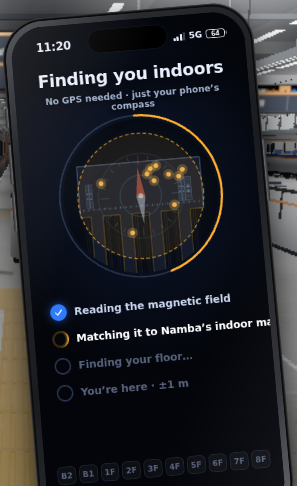
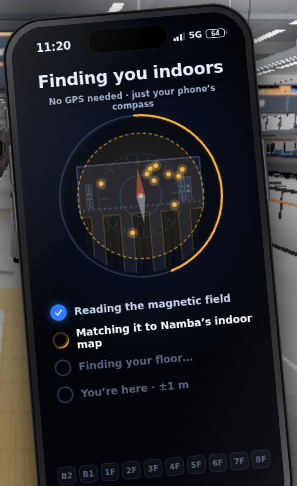
WIP v8: Lodestone full-app map + shared header, staged calibration screen (agent done)
Claude-Session: https://claude.ai/code/session_01DFPWmVZjWP3RarZo2JLFjj

diff --git a/namba-demo/css/phone.css b/namba-demo/css/phone.css
@@ -833,9 +833,9 @@
 .ld-calib { background: radial-gradient(90% 50% at 50% 34%, #0e1830 0%, #03050a 72%); }
 .ld-c-txt { top: 62px; padding: 0 18px; }
 .ld-c-txt h2 { font-size: 23px; line-height: 1.2; font-weight: 800; letter-spacing: -.015em; }
-.ld-c-sub { margin-top: 6px; font-size: 12px; letter-spacing: 0; text-transform: none; color: #9fb0cc; font-weight: 600; }
-.ld-c-steps { position: absolute; left: 24px; right: 18px; top: 372px; margin: 0; padding: 0; list-style: none; display: flex; flex-direction: column; gap: 6px; }
-.ld-c-steps li { display: flex; align-items: center; gap: 10px; height: 30px; font-size: 14px; letter-spacing: -.01em; white-space: nowrap; font-weight: 650; color: #56627a; transition: color .25s; }
+.ld-c-sub { margin-top: 6px; font-size: 11.5px; letter-spacing: 0; text-transform: none; color: #9fb0cc; font-weight: 600; }
+.ld-c-steps { position: absolute; left: 24px; right: 14px; top: 372px; margin: 0; padding: 0; list-style: none; display: flex; flex-direction: column; gap: 6px; }
+.ld-c-steps li { display: flex; align-items: center; gap: 10px; min-height: 30px; line-height: 1.15; font-size: 14px; letter-spacing: -.01em; font-weight: 650; color: #56627a; transition: color .25s; }
 .ld-c-steps li i { flex: 0 0 22px; height: 22px; border-radius: 50%; display: grid; place-items: center; box-shadow: inset 0 0 0 2px #2a3550; color: transparent; transition: background .25s, box-shadow .25s; }
 .ld-c-steps li i svg { width: 14px; height: 14px; }
 .ld-c-steps li.on { color: #fff; }

diff --git a/namba-demo/notes/v8-lodestone.md b/namba-demo/notes/v8-lodestone.md
@@ -57,3 +57,21 @@ installs Lodestone, freezes the calibration at 12/42/70/96 %, then teleports to 
   copy is gone (Zack found it unclear); update the doc if you like.
 - The hero 3D stack no longer plays automatically at the reveal. The reveal is now the map with "You're on 3F". If you
   want the stack fly-in back as the hero beat, it is a one-line change: in `_finish`, call `this.setView('stack')`.
+
+## Verification
+
+- `node tools/loadprobe.mjs` → `READY 169.9s []` (the slow first frame came from 4 SwiftShader browsers sharing the
+  machine; the load path is untouched apart from one small new module).
+- Harness runs: `errs []`, and no console errors besides the sandbox's Google Fonts certificate error.
+- All phone modules pass `node --experimental-default-type=module --check`.
+
+## Open risks
+
+- The headless fonts are fallbacks (Inter is blocked in the sandbox), so text there renders wider than for players. The
+  calibration sub line wraps in the shots; with Inter it should fit on one line. Worth one look on a real browser.
+- Map labels are 12 px in device units (about 9 px on screen at 1024×576 with the phone scale at 0.74). They are readable
+  but small; the header and pins carry the decision.
+- The floor plan is baked once per floor at 4 px/m (3 on low), the same cost as Maps. It is a few MB per floor visited
+  and is baked on first view (the current floor during the install).
+- Not verified: a real-time walk with the phone raised on a real GPU (frame cost of the 2D map; it should be cheaper
+  than the 3D preview it replaces, which no longer renders in the guide view).

diff --git a/namba-demo/notes/v8-fixes.md b/namba-demo/notes/v8-fixes.md
@@ -1,0 +1,6 @@
+# v8 Fixes (items 2, 5, 7) — owner: Fixes agent
+
+Files touched: `js/audio/announcer.js`, `js/game/game.js` (gate prompt only), `index.html`, `js/core/loader.js`, `css/game.css`.
+`js/ui/title.js` needed no edit (its markup already had the right two lines; the sizes swapped in `css/game.css`).
+
+NUMBERS_PLACEHOLDER
